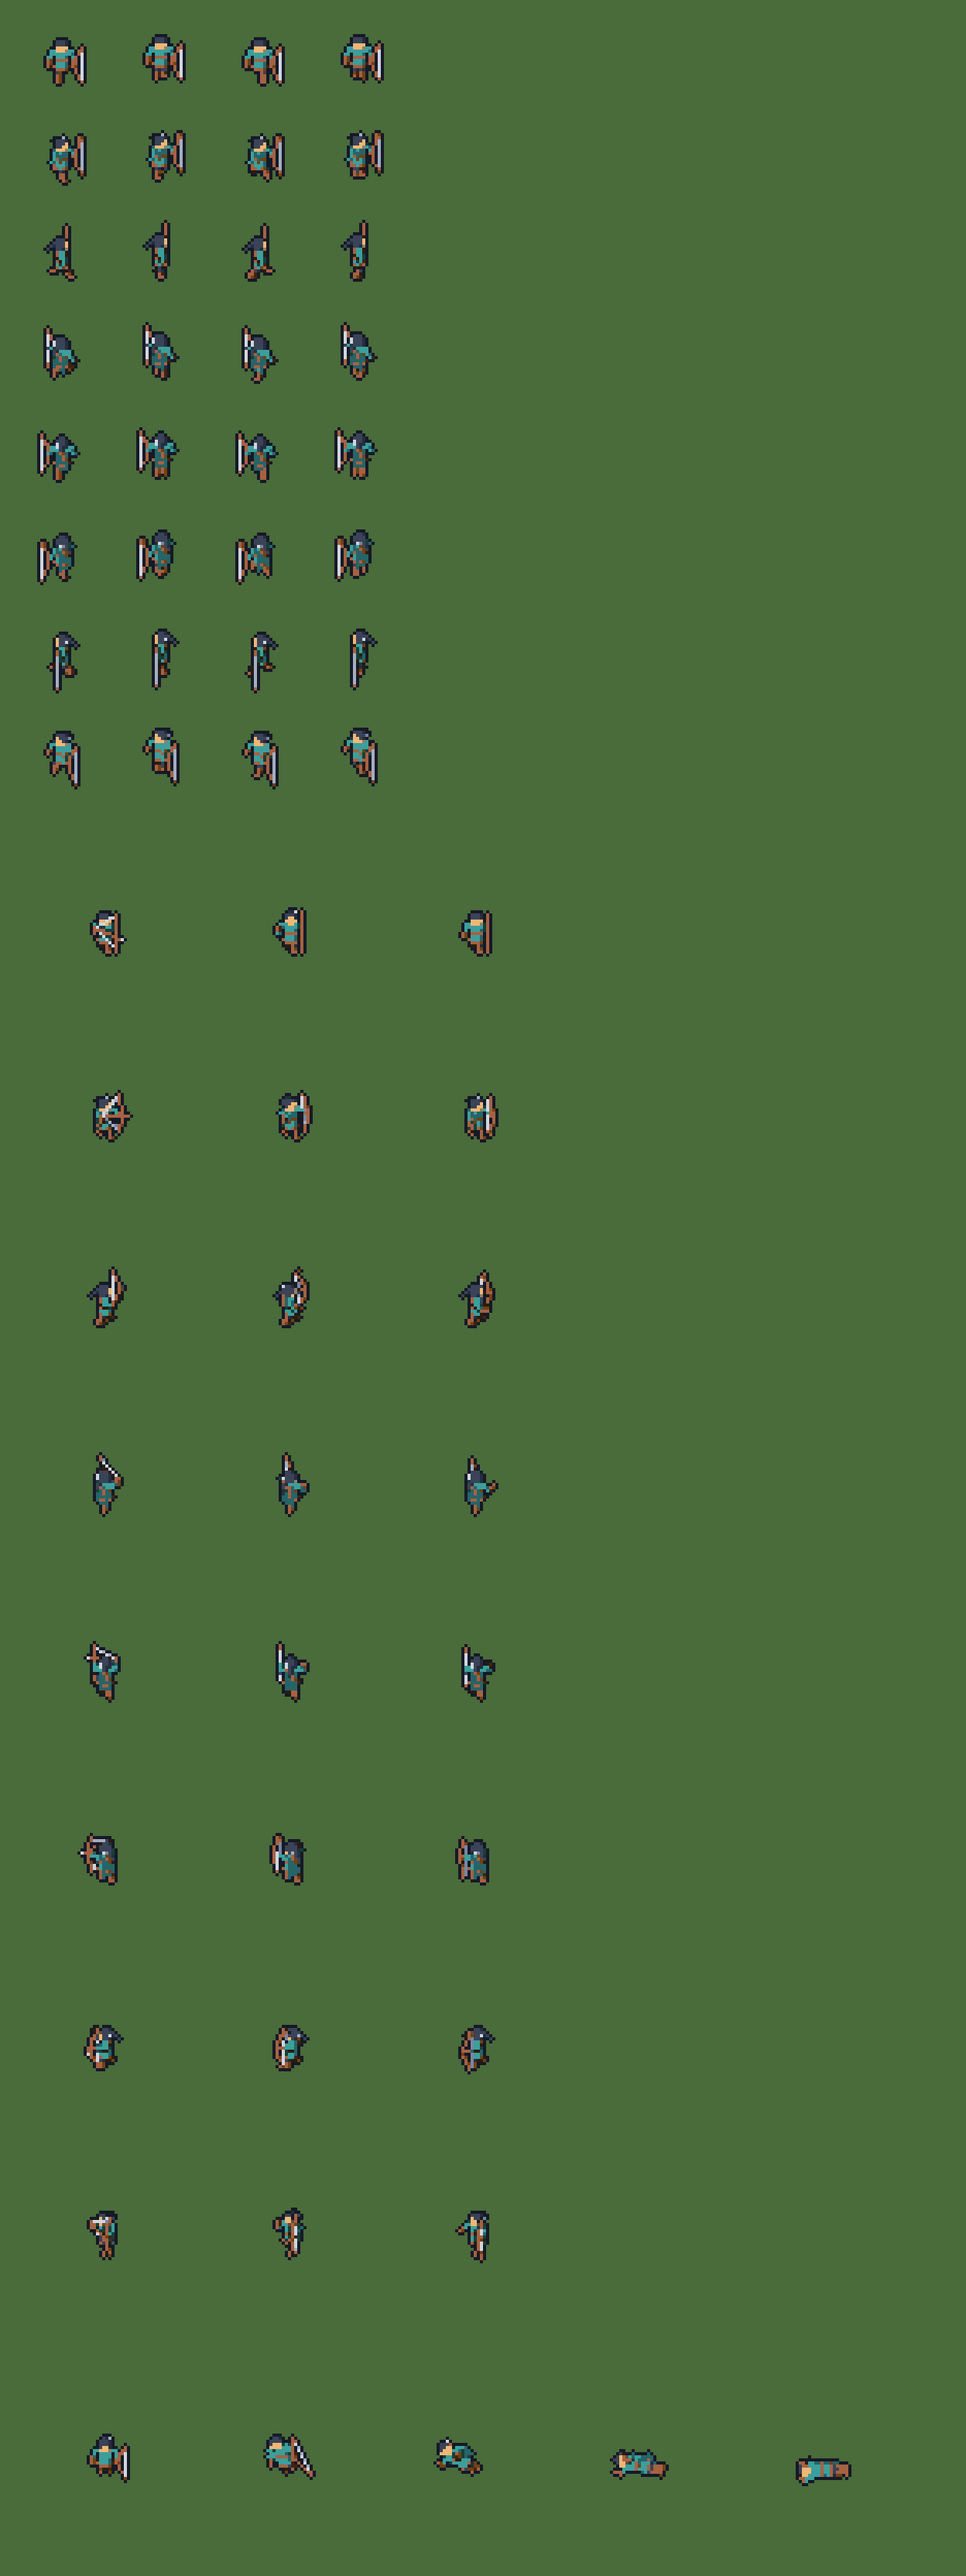
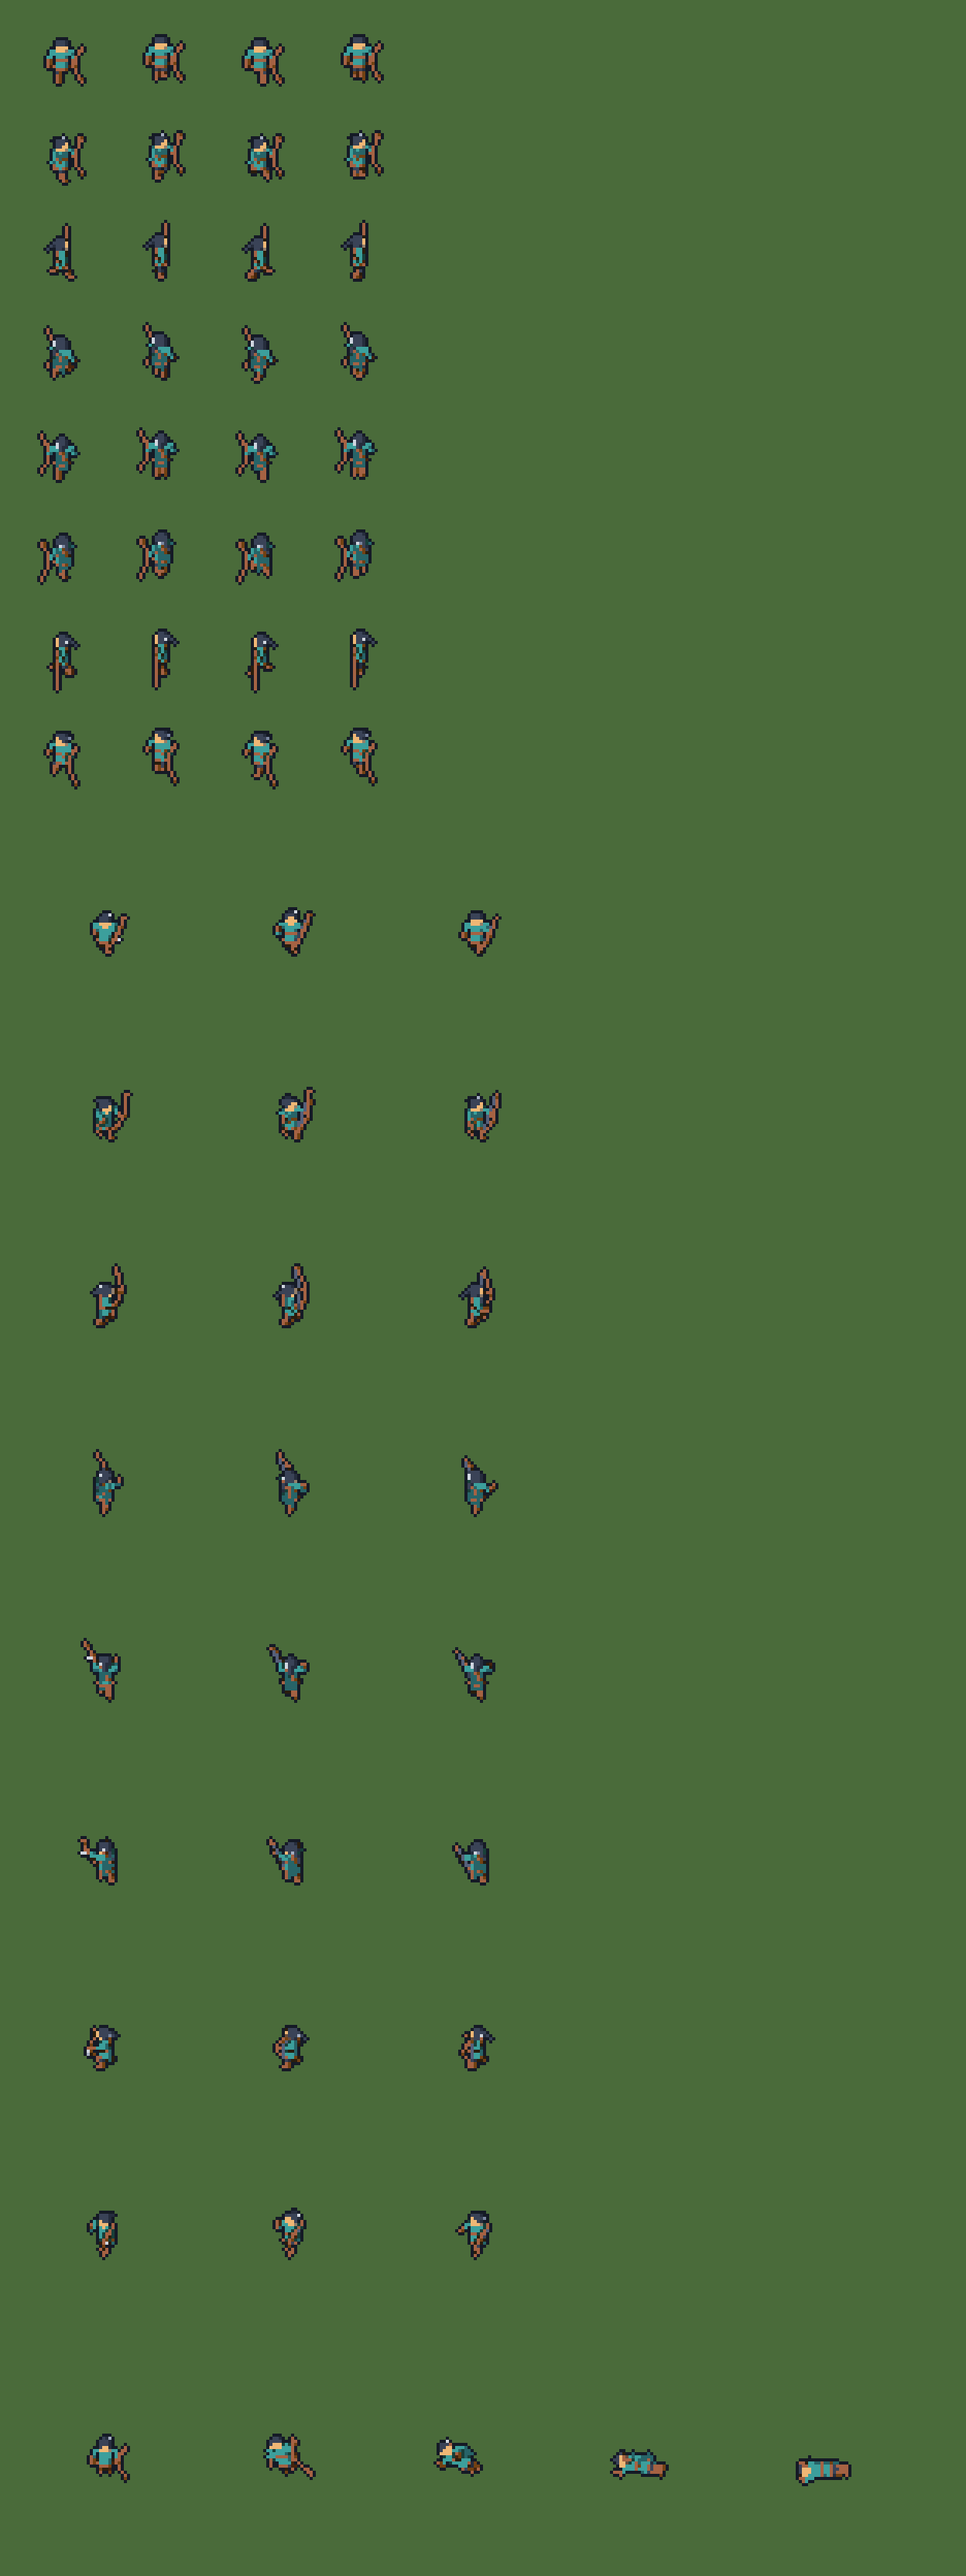
실비아 활 가독성 — 정지·걷기 시위 빼기, 공격 활 바깥 20° 기울이기, 준비 프레임 화살촉만(Gemini 4차 «상»)
Gemini 4차가 실비아를 불합격으로 본 까닭(활+시위가 방패처럼 보임, 공격 시위 잡음, S·SW 통나무)을 고쳤다.
사용자가 «상» 지적 전부를 고르게 했다(2026-10-19).
정지·걷기는 Gemini 안(30° 눕히기)이 회색 쐐기가 돼 시위를 빼는 쪽으로 갔다. 여섯 안을 견줘 골랐다.
공격 기울기는 -40·0·20·30·40·60°를 견줘 S와 W가 함께 읽히는 20°로 했다.

Claude-Session: https://claude.ai/code/session_01XsJzvSywTfhUgL72Hqiuhg

diff --git a/tools/art/sylvia.py b/tools/art/sylvia.py
@@ -20,19 +20,24 @@ BASE = {"skin": S.BASE["skin"],
         "leather": ["2a1d0d", "45230d", "724113", "a56243", "a56243"],
         "trouser": ["151a26", "262d3d", "262d3d", "3a4357", "3a4357"],
         "wood": ["2a1d0d", "724113", "a56243", "a56243", "a56243"],
-        "silver": ["3a4357", "7a86a0", "a4aec2", "d0d6e0", "d0d6e0"]}
+        "silver": ["3a4357", "7a86a0", "a4aec2", "d0d6e0", "d0d6e0"],
+        # 시위. 은색(d0d6e0)이면 활대와 시위 사이가 밝은 면으로 차서 1·2배에서 방패처럼 보였다(Gemini 4차 2026-10-19)
+        "string": ["3a4357", "56607a", "56607a", "56607a", "56607a"]}
 MATS = list(BASE)
 PARTS = ["leg", "torso", "head", "arm", "bow", "arrow"]
 SIZES = (24,)
-TAG = f"m5 ppu{H.PPU24} sylvia1"  # 형체 크기를 바꾸면 이 꼬리표도 바꾼다(fit.json)
+TAG = f"m5 ppu{H.PPU24} sylvia2"  # 형체 크기를 바꾸면 이 꼬리표도 바꾼다(fit.json)
 
 ARMS = dict(sh_l=10, el_l=25, ab_l=0.45, sh_r=10, el_r=25, ab_r=0.45)  # 활을 왼쪽에 세워 든다
 IDLE = dict(H.IDLE, **ARMS)
 WALK = [dict(w, **ARMS) for w in H.WALK]
 # 공격은 원거리(S121 사거리 4): 앞 무릎을 굽힌 런지(컨셉 자세)로 활을 과녁 쪽에 세우고 시위를 뺨까지 당겼다가(준비, 화살 보임)
 # 놓으며 오른손이 귀 뒤로 튄다(발사, 가운데가 타격 프레임, 시위가 곧게 돌아오고 화살 없음). 마무리는 활을 조금 내린다
-LUNGE = dict(hip_l=18, knee_l=22, hip_r=-16, knee_r=6)
-ATTACK = [dict(H.POSE, **LUNGE, sh_l=85, el_l=0, ab_l=0.15, sh_r=75, el_r=95, ab_r=0.1, aim=1, draw=1),
+# 2026-10-19 Gemini 4차: 당긴 시위·화살대가 몸통 위에서 X자 잡음이 돼 준비 프레임은 시위를 그리지 않고 화살촉만 둔다.
+# 활은 위 끝을 바깥으로 20° 기울인다(cant). 곧게 세우면 남·남서에서 활이 시위와 겹친 통나무로 보였다. 몸 쪽 40°는 남에서 활이 몸통을 가로질렀고,
+# 바깥 30° 이상은 서에서 활이 카메라 쪽으로 누워 안 보였다
+LUNGE = dict(hip_l=18, knee_l=22, hip_r=-16, knee_r=6, cant=20)
+ATTACK = [dict(H.POSE, **LUNGE, sh_l=88, el_l=0, ab_l=0.15, sh_r=75, el_r=95, ab_r=0.1, aim=1, draw=1, lean=5),
           dict(H.POSE, **LUNGE, sh_l=85, el_l=0, ab_l=0.15, sh_r=40, el_r=140, ab_r=0.5, aim=1, lean=-3),
           dict(H.POSE, **LUNGE, sh_l=60, el_l=10, ab_l=0.2, sh_r=30, el_r=60, ab_r=0.4, aim=1)]
 FALL = [dict(H.FALL[0], **ARMS), dict(H.FALL[1], **ARMS)] + [dict(f, bow=0) for f in H.FALL[2:]]
@@ -69,16 +74,22 @@ def sylvia(pose, bob_unit):
     g = U(arms["l"][2])  # 줌통
     # 시위 쪽. 정지·걷기는 몸 왼쪽에 세우고 시위를 바깥으로 둔다. 몸 쪽으로 두면 남(정면)에서 시위가 몸통 위 은색 세로줄이 됐다
     back = -fwd if pose.get("aim") else up_r @ np.array([-1.0, 0, 0])
+    c = np.radians(pose.get("cant", 0))  # 활 위 끝을 바깥(왼쪽)으로 눕힌다
+    up = np.cos(c) * up + np.sin(c) * (up_r @ np.array([-1.0, 0, 0]))
+    back = back - (back @ up) * up
+    back /= np.linalg.norm(back)
     tips = []
     for k in (1, -1):  # 위·아래 팔
         pts = [g + up * (a * k) + back * b for a, b in BOW]
         P += [(R.capsule(pts[i], pts[i + 1], 0.03), m("wood"), "bow") for i in range(len(pts) - 1)]
         tips.append(pts[2])
-    nock = U(arms["r"][2]) if pose.get("draw") else (tips[0] + tips[1]) / 2
-    P += [(R.capsule(t, nock, 0.028), m("silver"), "bow") for t in tips]  # 시위
-    if pose.get("draw"):  # 당긴 화살: 시위에서 줌통 앞까지
-        tip = g + (g - nock) / np.linalg.norm(g - nock) * 0.1
-        P += [(R.capsule(nock, tip, 0.028), m("wood"), "arrow"), (R.capsule(tip, tip + (tip - nock) / np.linalg.norm(tip - nock) * 0.05, 0.03, 0.01), m("silver"), "arrow")]
+    if pose.get("draw"):  # 당긴 프레임: 시위·화살대 없이 줌통 앞 화살촉만
+        d = g - U(arms["r"][2])
+        tip = g + d / np.linalg.norm(d) * 0.06
+        P.append((R.capsule(tip, tip + d / np.linalg.norm(d) * 0.07, 0.035, 0.012), m("silver"), "arrow"))
+    elif pose.get("aim"):  # 정지·걷기는 시위를 그리지 않는다. 시위를 그리면 활대와 시위가 D자 판이 돼 1·2배에서 방패처럼 보였다(Gemini 4차 2026-10-19).
+        # 위 끝을 30° 눕히는 안(Gemini 안)도 견줬는데, 활대와 시위 사이가 메워져 회색 쐐기가 됐다. 시위가 없으면 «)» 활 모양이 8방향 중 여섯에서 읽힌다
+        P += [(R.capsule(t, (tips[0] + tips[1]) / 2, 0.028), m("string"), "bow") for t in tips]  # 시위
     return P
 
 

diff --git a/insights/2026-10-19_hero_sprites.md b/insights/2026-10-19_hero_sprites.md
@@ -141,6 +141,17 @@
 - 공격(원거리, 사거리 4): 세 프레임 모두 컨셉의 런지(앞 무릎 굽힘)다. 준비에서는 활을 과녁 쪽에 세우고 시위를 뺨까지 당긴다. 이때 화살이 보인다. 발사(타격 프레임)에서는 시위를 놓고, 오른손이 귀 뒤로 튀며, 시위가 곧게 돌아오고 화살이 없다. 마무리에서는 활을 조금 내린다.
 - 쓰러짐: 기사 자세를 쓴다. 활은 셋째 프레임부터 사라진다.
 
+### Gemini 4차 반영(사용자 2026-10-19 «상» 지적 전부)
+
+| 지적 | 고친 것 | 견준 안 |
+|---|---|---|
+| 정지·걷기 활+시위가 1·2배에서 방패처럼 보인다(아이아스·크로노스와 겹침) | 정지·걷기는 시위를 그리지 않는다. 활은 곧게 세운 «)» 모양만 남는다 | Gemini 안(위 끝 30° 눕히기 + 시위 `56607a`)은 활대와 시위 사이가 메워져 회색 쐐기가 됐다. 0·15·25°와 시위 유무 여섯 안 가운데 «0°·시위 없음»이 8방향 중 여섯에서 활로 읽혔다 |
+| 공격 f1 시위·화살대가 몸통 위 X자 잡음 | 준비 프레임은 시위·화살대 없이 줌통 앞 은 화살촉만 둔다. 앞으로 5° 기울여 활을 몸에서 뗐다 | — |
+| 공격 f2·f3가 S·SW에서 통나무 | 공격 세 프레임 모두 활 위 끝을 바깥으로 20° 기울인다. 시위는 `56607a`로 낮췄다 | 몸 쪽 40°는 S에서 활이 몸통을 가로질렀다. 바깥 30°·40°는 W에서 활이 카메라 쪽으로 누워 사라졌다 |
+
+- 맞춤 꼬리표를 `sylvia2`로 올렸다. 캔버스 28px·기준점 (14, 19)는 그대로다. lint는 4장 모두 다시 통과했다.
+- «중» 지적(코르셋 갈색 줄이기, 포니테일 2px 더)은 사용자가 고른 범위(«상») 밖이라 두었다.
+
 ### 약점(검수 때 볼 것)
 
 - 동·서(정측면)에서 활이 시위와 겹친 세로 막대로 보인다.
